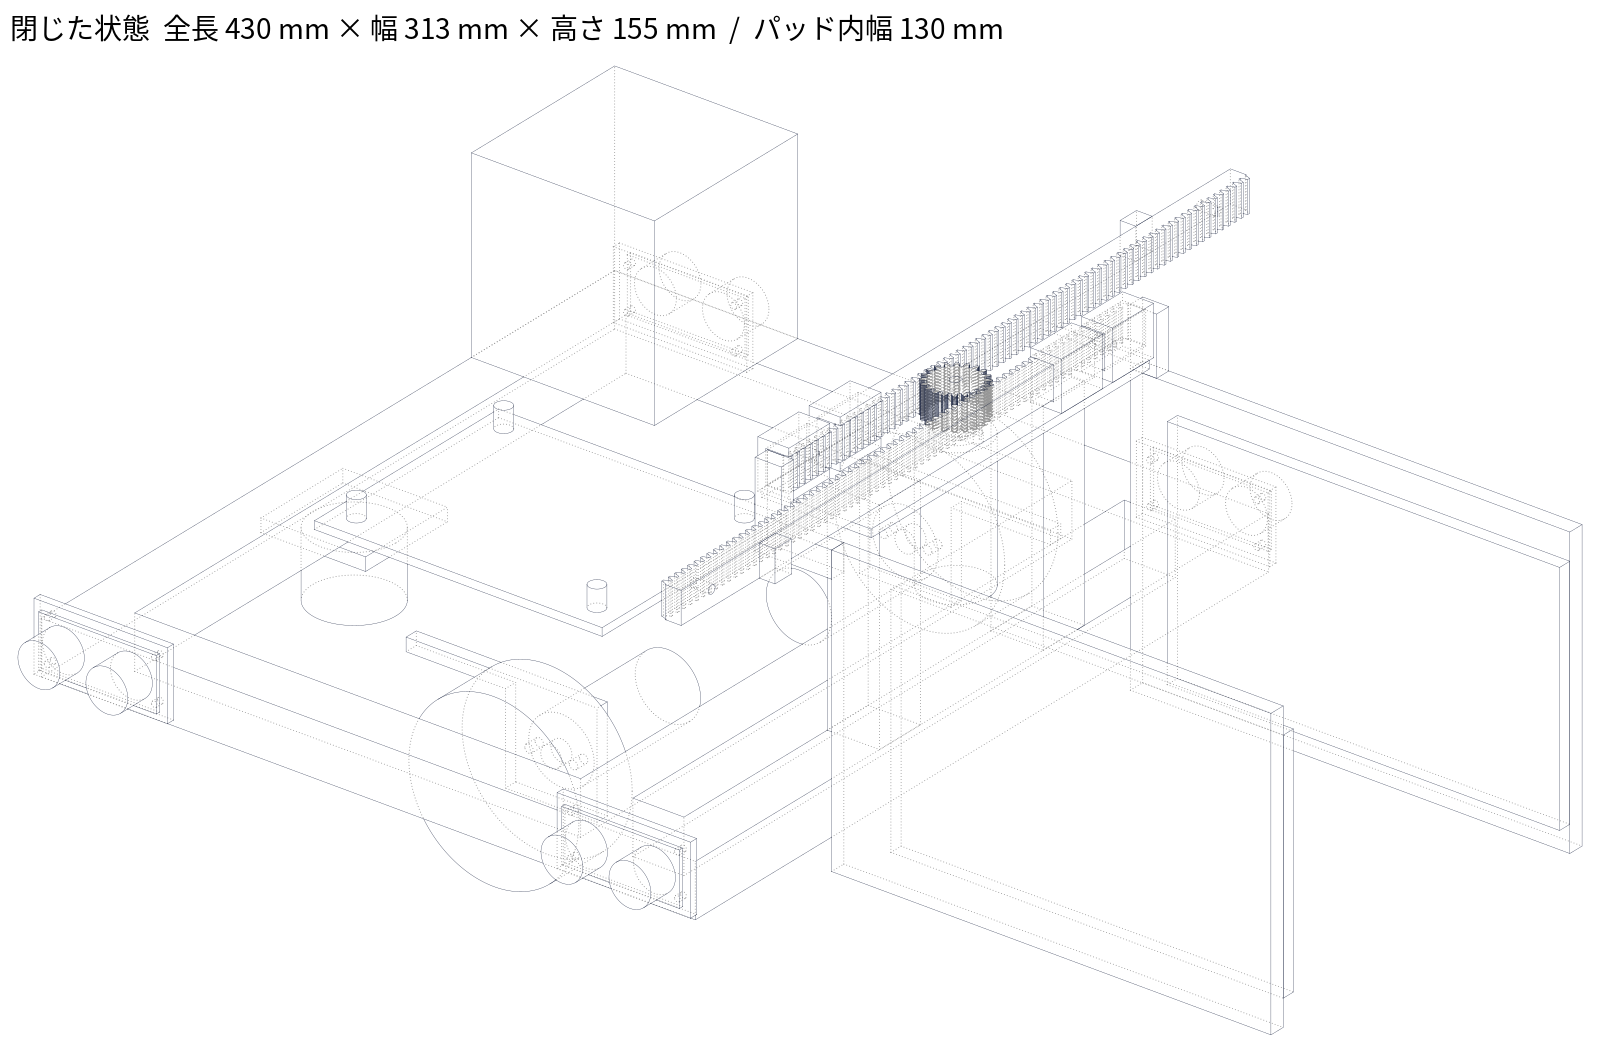
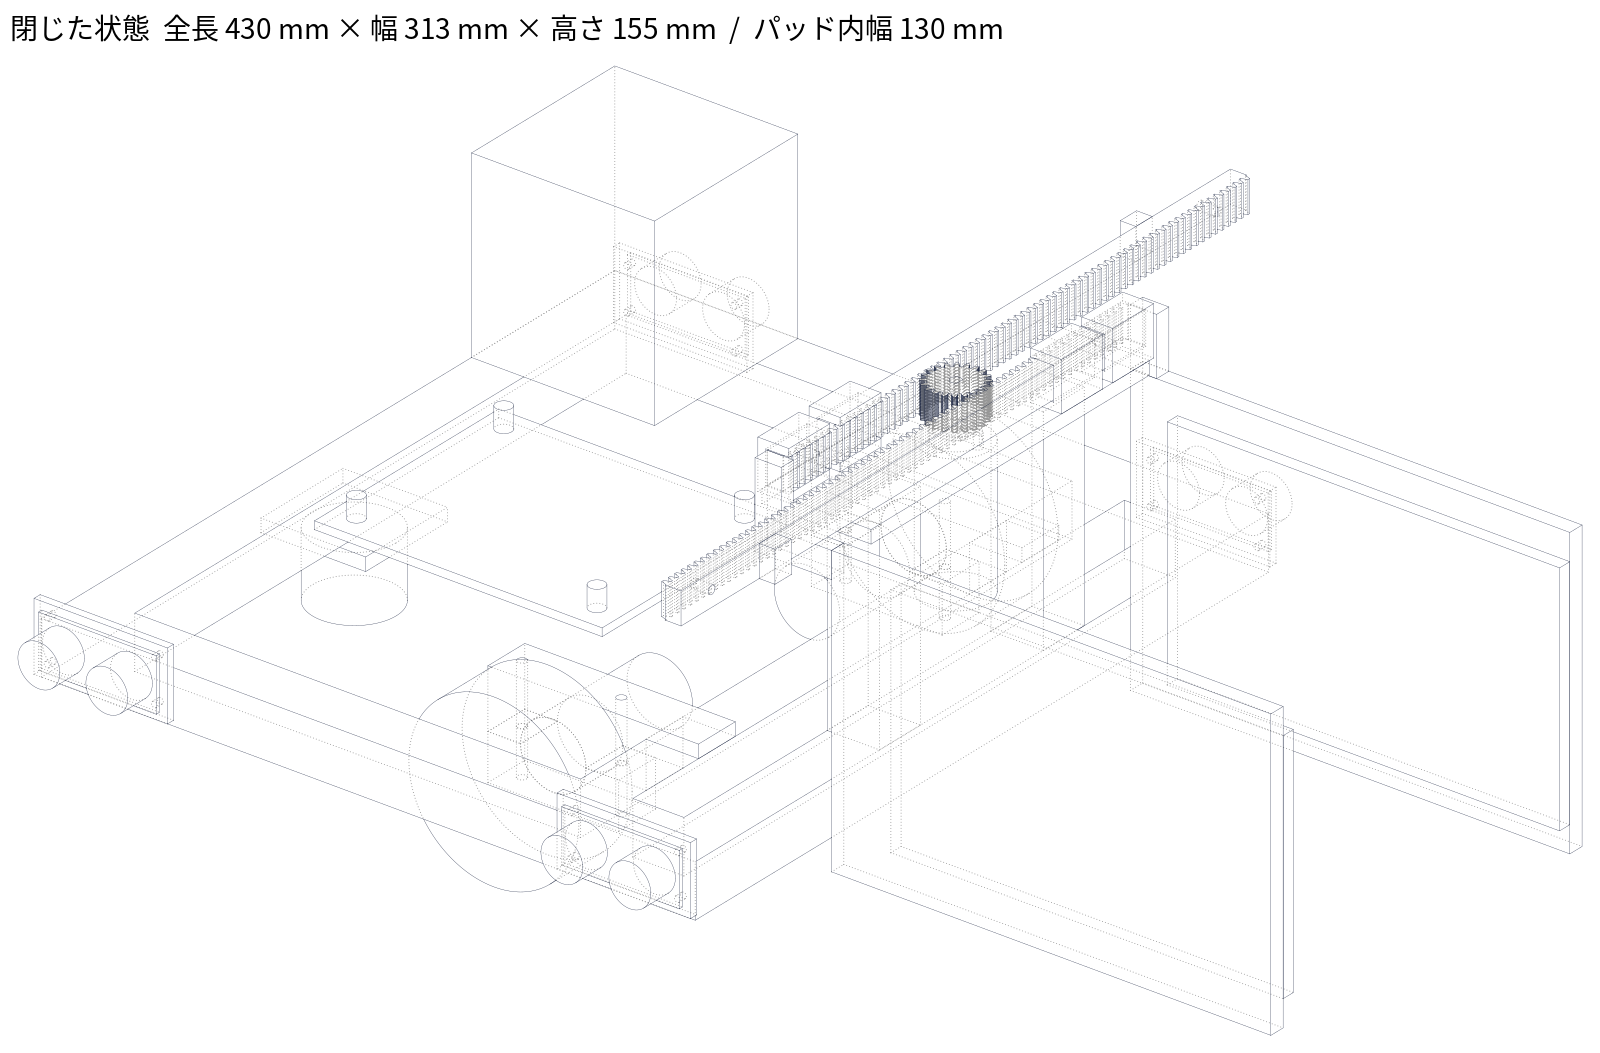
feat(mechanical): split clamp for the drive motors, 5mm gripper deck
Replaces the cantilevered 5x5mm hanger with a clamp around the gearbox body
bolted to the top and rear faces of the motor cross member. Right-side parts
are now mirrored across y=0 instead of rotated.

Claude-Session: https://claude.ai/code/session_01ENsByEFNd15FuMFFPy7PpL

diff --git a/mechanical/parts/chassis.py b/mechanical/parts/chassis.py
@@ -32,19 +32,47 @@ def frame_members() -> list[tuple[str, float, Part]]:
     ]
 
 
-def drive_motor_mount() -> Part:
-    """Hangs from the cross member: top flange (M5 to T-nut) + vertical plate bolted to the gearbox face.
-    Local frame: gearbox face plane y = 0 (motor body toward -y), motor axis at x = 0, z = 0."""
-    reach = CROSS_X - WHEEL_X  # cross member centre is this far ahead of the motor axis
-    top = FRAME_Z + E - WHEEL_D / 2  # cross member top above the axis
-    plate = Pos(0, 0, top + MOUNT_T) * Box(MOTOR_DIA + 10, MOUNT_T, top + MOUNT_T + MOTOR_DIA / 2 + 4,
-                                           align=(Align.CENTER, Align.MIN, Align.MAX))
-    plate -= Rot(90, 0, 0) * Cylinder(4.0, 20)  # shaft boss clearance
-    for dx in (-MOTOR_HOLE_PITCH / 2, MOTOR_HOLE_PITCH / 2):
-        plate -= Pos(dx, 0, 0) * Rot(90, 0, 0) * Cylinder(MOTOR_HOLE_D / 2, 20)
-    flange = Pos(-MOTOR_DIA / 2, 0, top) * Box(reach + E / 2 + MOTOR_DIA / 2, MOUNT_T, MOUNT_T,
-                                                align=(Align.MIN, Align.MIN, Align.MIN))
-    return plate + flange
+CLAMP_X0 = -25.0   # clamp extends this far behind the motor axis
+CLAMP_BOLT_X = 19.0
+CLAMP_BOTTOM = 17.5  # cap bottom below the axis (ground clearance = axis height - this)
+BORE_R = MOTOR_DIA / 2  # split clamp: the bolts squeeze the halves onto the gearbox
+
+
+def _clamp_y0() -> float:
+    from params import GEARBOX_CLAMP_LEN
+
+    return -GEARBOX_CLAMP_LEN
+
+
+def motor_clamp() -> Part:
+    """Upper half of the split clamp around the JGA25 gearbox. Local frame: motor axis along Y with the
+    gearbox face at y = 0 (body toward -y), axis at x = z = 0. Sits on the cross member top (M5 + T-nut)
+    and bears on its rear face (M5 + T-nut); the cap closes it from below with two M3."""
+    y0 = _clamp_y0()
+    member_front = CROSS_X + E / 2 - WHEEL_X   # cross member faces, relative to the motor axis
+    member_rear = CROSS_X - E / 2 - WHEEL_X
+    top = FRAME_Z + E - WHEEL_D / 2 + MOUNT_T  # 5mm over the member top
+    width = -y0
+    body = Pos(CLAMP_X0, y0, 0) * Box(member_rear - CLAMP_X0, width, top, align=(Align.MIN, Align.MIN, Align.MIN))
+    body += Pos(member_rear, y0, top - MOUNT_T) * Box(member_front - member_rear, width, MOUNT_T,
+                                                      align=(Align.MIN, Align.MIN, Align.MIN))
+    body -= Pos(0, y0 / 2, 0) * Rot(90, 0, 0) * Cylinder(BORE_R, width + 2)
+    for dx in (-CLAMP_BOLT_X, CLAMP_BOLT_X):
+        body -= Pos(dx, y0 / 2, 0) * Cylinder(1.7, 2 * top, align=(Align.CENTER, Align.CENTER, Align.MIN))
+    return body
+
+
+def motor_clamp_cap() -> Part:
+    """Lower half of the clamp (same local frame), z -CLAMP_BOTTOM..0."""
+    y0 = _clamp_y0()
+    width = -y0
+    cap = Pos(CLAMP_X0, y0, -CLAMP_BOTTOM) * Box(-2 * CLAMP_X0, width, CLAMP_BOTTOM,
+                                                 align=(Align.MIN, Align.MIN, Align.MIN))
+    cap -= Pos(0, y0 / 2, 0) * Rot(90, 0, 0) * Cylinder(BORE_R, width + 2)
+    for dx in (-CLAMP_BOLT_X, CLAMP_BOLT_X):
+        cap -= Pos(dx, y0 / 2, -CLAMP_BOTTOM - 1) * Cylinder(1.7, CLAMP_BOTTOM + 2,
+                                                            align=(Align.CENTER, Align.CENTER, Align.MIN))
+    return cap
 
 
 def caster_mount() -> Part:
@@ -67,9 +95,9 @@ UPRIGHT_Y = 40.0   # clear of the gripper motor (r 12.5) and of the right bracke
 
 def upright_members() -> list[tuple[str, float, Part]]:
     """Two vertical 20mm extrusions on the front member carrying the gripper deck (top at DECK_BOTTOM)."""
-    from params import RACK_Z
+    from params import DECK_T, RACK_Z
 
-    deck_bottom = RACK_Z - 0.3 - 3.0 - 3.0  # rack clearance, guide wall, deck thickness
+    deck_bottom = RACK_Z - 0.3 - 3.0 - DECK_T  # rack clearance, guide wall, deck
     length = deck_bottom - (FRAME_Z + E)
     x = FRAME_D / 2 - E / 2
     return [(f"upright_{n}", length,

diff --git a/mechanical/assembly.py b/mechanical/assembly.py
@@ -18,23 +18,23 @@ def rack_pitch_lines() -> tuple[float, float]:
 # ---------------------------------------------------------------------------
 # chassis
 
-from build123d import Align, Box, Cylinder, Part, Pos, Rot  # noqa: E402
+from build123d import Align, Box, Cylinder, Part, Plane, Pos, Rot, mirror  # noqa: E402
 
 from params import (CASTER_D, CASTER_H, EXTRUSION, FRAME_W, FRAME_Z, MOTOR_DIA, MOTOR_LEN,  # noqa: E402
                     SONAR_SPACING, SONAR_Z, WHEEL_D, WHEEL_W, WHEEL_X)
-from parts.chassis import (MOUNT_T, board_mount, caster_mount, drive_motor_mount, frame_members,  # noqa: E402
+from parts.chassis import (board_mount, caster_mount, frame_members, motor_clamp, motor_clamp_cap,  # noqa: E402
                            upright_members)
 from parts.sensors import HOLDER_T, sonar_body, sonar_mount  # noqa: E402
 
 WHEEL_Y = FRAME_W / 2 - EXTRUSION - 3 - WHEEL_W / 2   # wheel centre |y|
-GEARBOX_FACE_Y = WHEEL_Y - WHEEL_W / 2 - 2 - MOUNT_T  # motor gearbox face |y|
+GEARBOX_FACE_Y = WHEEL_Y - WHEEL_W / 2 - 3       # motor gearbox face |y| (shaft reaches into the wheel hub)
 SONAR_X = SONAR_SPACING / 2
 ESTOP = (70.0, 70.0, 70.0)
 
 
 def _side(part: Part, left: bool) -> Part:
-    """Parts are modelled for the left (+Y) side; mirror by rotating 180 degrees about Z."""
-    return part if left else Rot(0, 0, 180) * part
+    """Parts are modelled for the left (+Y) side; the right side is their mirror image across y = 0."""
+    return part if left else mirror(part, Plane.XZ)
 
 
 def chassis() -> dict[str, Part]:
@@ -50,10 +50,11 @@ def chassis() -> dict[str, Part]:
         motor = Pos(WHEEL_X, 0, axis_z) * _side(
             Pos(0, GEARBOX_FACE_Y, 0) * Rot(90, 0, 0) * Cylinder(MOTOR_DIA / 2, MOTOR_LEN,
                                                                  align=(Align.CENTER, Align.CENTER, Align.MIN)), left)
-        mount = Pos(WHEEL_X, 0, axis_z) * _side(Pos(0, GEARBOX_FACE_Y, 0) * drive_motor_mount(), left)
         parts[f"wheel_{side}"] = wheel
         parts[f"motor_{side}"] = motor
-        parts[f"motor_mount_{side}"] = mount
+        parts[f"clamp_{side}"] = Pos(WHEEL_X, 0, axis_z) * _side(Pos(0, GEARBOX_FACE_Y, 0) * motor_clamp(), left)
+        parts[f"clamp_cap_{side}"] = Pos(WHEEL_X, 0, axis_z) * _side(
+            Pos(0, GEARBOX_FACE_Y, 0) * motor_clamp_cap(), left)
     rear_x = -(FRAME_D / 2 - EXTRUSION / 2)
     parts["caster_mount"] = Pos(rear_x, 0, FRAME_Z) * caster_mount()
     parts["caster"] = Pos(rear_x, 0, 0) * Cylinder(CASTER_D / 2, CASTER_H, align=(Align.CENTER, Align.CENTER, Align.MIN))
@@ -164,7 +165,6 @@ from pathlib import Path  # noqa: E402
 
 from build123d import Compound, export_step, export_stl  # noqa: E402
 
-from parts.chassis import drive_motor_mount as _drive_motor_mount  # noqa: E402
 from parts.gripper import rack_stop  # noqa: E402
 
 
@@ -181,7 +181,8 @@ def printed_parts() -> dict[str, tuple[Part, int]]:
         "bracket_l": (g["bracket_l"], 1),
         "bracket_r": (g["bracket_r"], 1),
         "deck": (gripper(True)["deck"], 1),
-        "drive_motor_mount": (_drive_motor_mount(), 2),
+        "motor_clamp": (motor_clamp(), 2),
+        "motor_clamp_cap": (motor_clamp_cap(), 2),
         "caster_mount": (caster_mount(), 1),
         "board_mount": (board_mount(), 1),
         "sonar_mount": (sonar_mount(), 4),

diff --git a/mechanical/tests/test_assembly.py b/mechanical/tests/test_assembly.py
@@ -137,3 +137,20 @@ def test_brackets_hit_guides_at_full_close():
     for side in ("l", "r"):
         assert _touching(CLOSED[f"bracket_{side}"], CLOSED["guides"]), side
         assert not _touching(OPEN[f"bracket_{side}"], OPEN["guides"]), side
+
+
+def test_drive_motors_are_clamped_to_the_frame():
+    from params import GEARBOX_CLAMP_LEN
+
+    for side in ("l", "r"):
+        for part in (f"clamp_{side}", f"clamp_cap_{side}"):
+            assert _touching(OPEN[part], OPEN[f"motor_{side}"]), part
+        assert _touching(OPEN[f"clamp_{side}"], OPEN["frame"]), side
+        assert _touching(OPEN[f"clamp_cap_{side}"], OPEN[f"clamp_{side}"]), side
+        # the clamp grips the gearbox along its length, not just the face
+        assert OPEN[f"clamp_{side}"].bounding_box().size.Y >= GEARBOX_CLAMP_LEN - 1e-6
+
+
+def test_drive_motor_clamp_keeps_ground_clearance():
+    for side in ("l", "r"):
+        assert OPEN[f"clamp_cap_{side}"].bounding_box().min.Z >= 10.0

diff --git a/mechanical/params.py b/mechanical/params.py
@@ -18,6 +18,7 @@ MOTOR_SHAFT_FLAT = 3.5   # D-cut: centre to flat = 3.5 - 2.0 = 1.5mm
 MOTOR_SHAFT_LEN = 10.0   # (measure)
 MOTOR_HOLE_PITCH = 17.0  # M3 holes on the gearbox face (measure)
 MOTOR_HOLE_D = 3.2
+GEARBOX_CLAMP_LEN = 18.0 # clamped length of the 25mm gearbox body (gearbox is ~19-24mm long, measure)
 
 # caster
 CASTER_H = 25.0          # ball caster height floor -> mounting face (measure)
@@ -38,6 +39,7 @@ ARM_T = 6.0
 PAD_Z_MIN = 30.0
 PAD_Z_MAX = 120.0
 PAD_T = 5.0              # pad incl. rubber
+DECK_T = 5.0             # gripper deck under the guide blocks
 RACK_Z = 140.0           # rack / pinion bottom face; above the arm plates so racks pass over the far arm
 
 # ultrasonic HC-SR04

diff --git a/mechanical/parts/gripper.py b/mechanical/parts/gripper.py
@@ -4,14 +4,13 @@ from __future__ import annotations
 
 from build123d import Align, Box, Cylinder, Part, Pos, Rot
 
-from params import ARM_T, BOX, GEAR_FACE, MODULE, MOTOR_HOLE_D, MOTOR_HOLE_PITCH, PAD_T, PAD_Z_MAX, PAD_Z_MIN
+from params import ARM_T, BOX, DECK_T, GEAR_FACE, MODULE, MOTOR_HOLE_D, MOTOR_HOLE_PITCH, PAD_T, PAD_Z_MAX, PAD_Z_MIN
 from parts.gears import RACK_BASE
 
 CLEAR = 0.3
 WALL = 3.0
 ARM_Z_MIN = PAD_Z_MIN - 10
 ARM_Z_MAX = PAD_Z_MAX + 10
-DECK_T = 3.0
 
 
 RACK_DEPTH = 2.25 * MODULE + RACK_BASE  # tooth tip to back face

diff --git a/docs/superpowers/specs/2026-10-15-carrier-robot-design.md b/docs/superpowers/specs/2026-10-15-carrier-robot-design.md
@@ -75,6 +75,7 @@
 - 駆動輪2個(直径 65mm、4mm D カット軸用カップリング)を左右中央よりやや前に配置する。
 - 後部にボールキャスター1個。
 - 駆動モーター:JGA25-370、12V、エンコーダ付き、無負荷約 300rpm。
+- 駆動モーターの固定:ギアボックス(φ25)の胴体を、上下に割った3Dプリントのクランプ(長さ18mm)ではさみ、下のキャップを M3 ボルト2本で締める。クランプ本体はモーター用横材の上面と後面に、M5 ボルトと T ナットで留める。床からキャップ下面までは 15mm。
 
 #### 駆動の所要性能(根拠)
 
@@ -90,7 +91,7 @@
 - ピニオン1個でラック2本を逆向きに動かし、左右のアームを対称に開閉する。
 - アームは前方へ約 170mm 伸び、内側の床から約 30〜120mm の高さにゴム付きパッドを付ける。
 - ストローク:開いたとき内側 約400mm(箱2個と隙間の合計 348.5mm に余裕を足す)。閉じきりで約130mm(箱1個も把持可能。箱幅より狭くして、空のときと箱1個のときを位置で区別できるようにする)。箱2個を挟むと約300mm。
-- ガイドブロックは3Dプリントのデッキ(厚さ3mm)に載せ、デッキはフレーム前端の横材に立てた 20mm 角アルミの柱2本(長さ約84mm)で支える。把持モーターはデッキの下面に付け、ピニオンの下側のハブ(φ14 × 5mm)がデッキの穴を通ってモーター軸を受ける。
+- ガイドブロックは3Dプリントのデッキ(厚さ5mm)に載せ、デッキはフレーム前端の横材に立てた 20mm 角アルミの柱2本(長さ約82mm)で支える。把持モーターはデッキの下面に付け、ピニオンの下側のハブ(φ14 × 5mm)がデッキの穴を通ってモーター軸を受ける。
 - 開閉の両端は機械的に止める。開ききりはラック背面のストッパーがガイドブロックに当たる位置、閉じきりはアームのブラケットがガイドブロックの端に当たる位置。リミットスイッチは使わない。
 - 箱は持ち上げず、床を滑らせて運ぶ。
 - 壁際の箱にも、横から挟むため壁と干渉しない。
